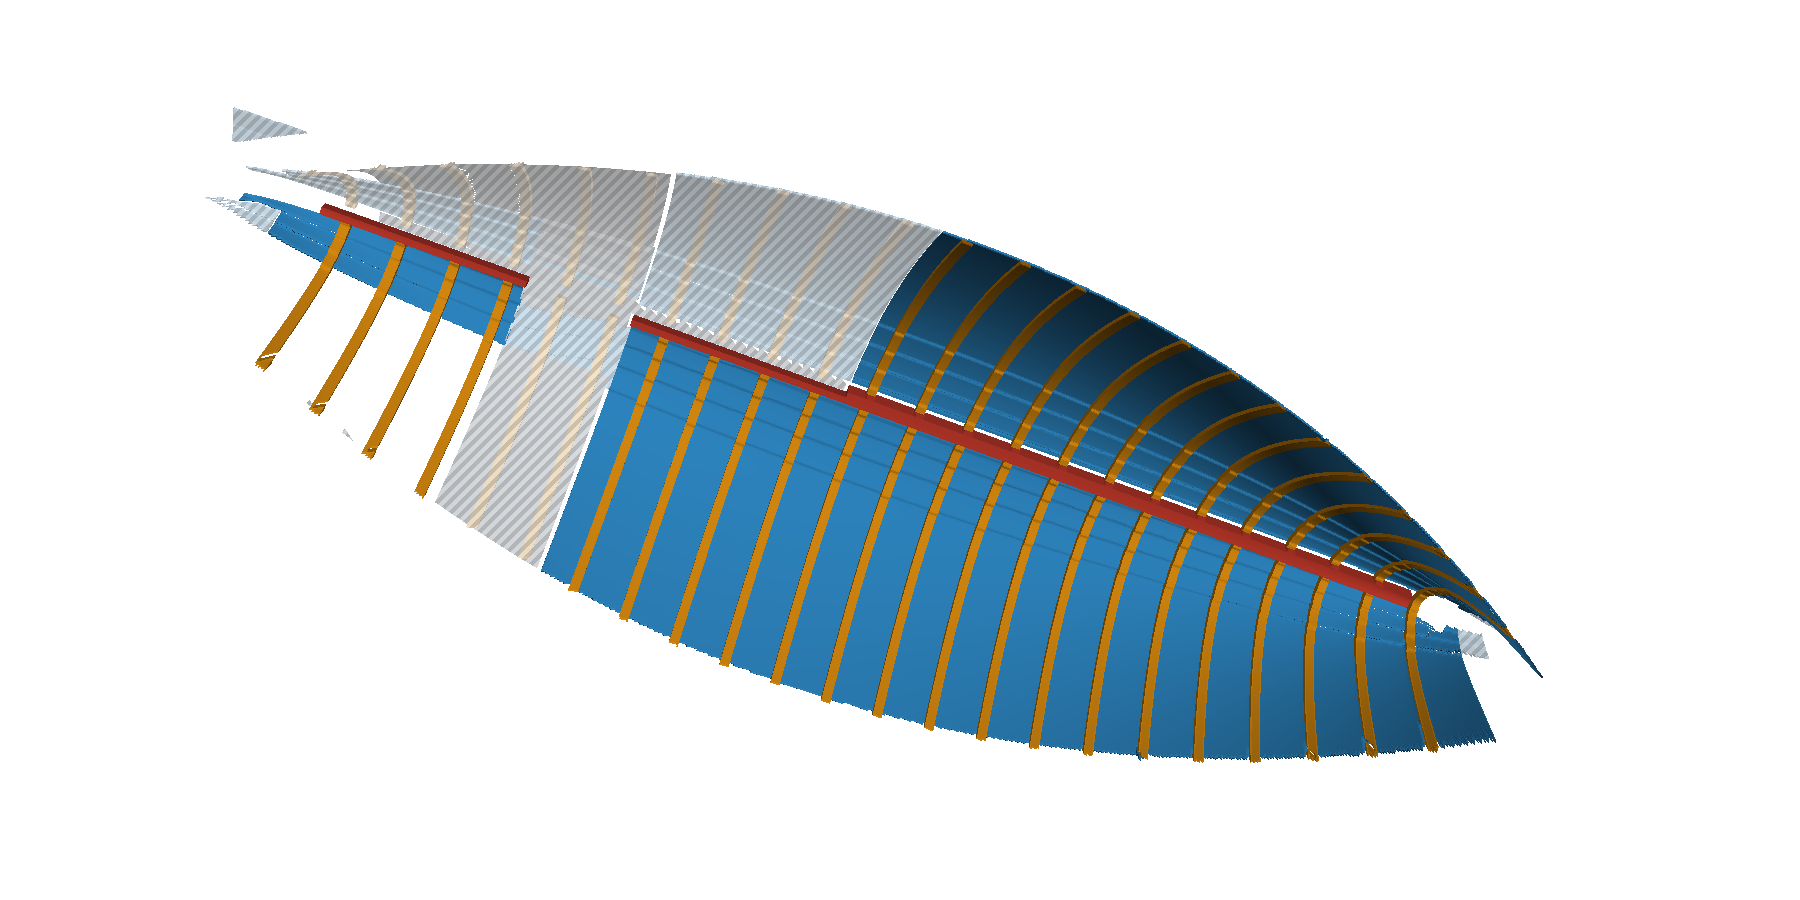
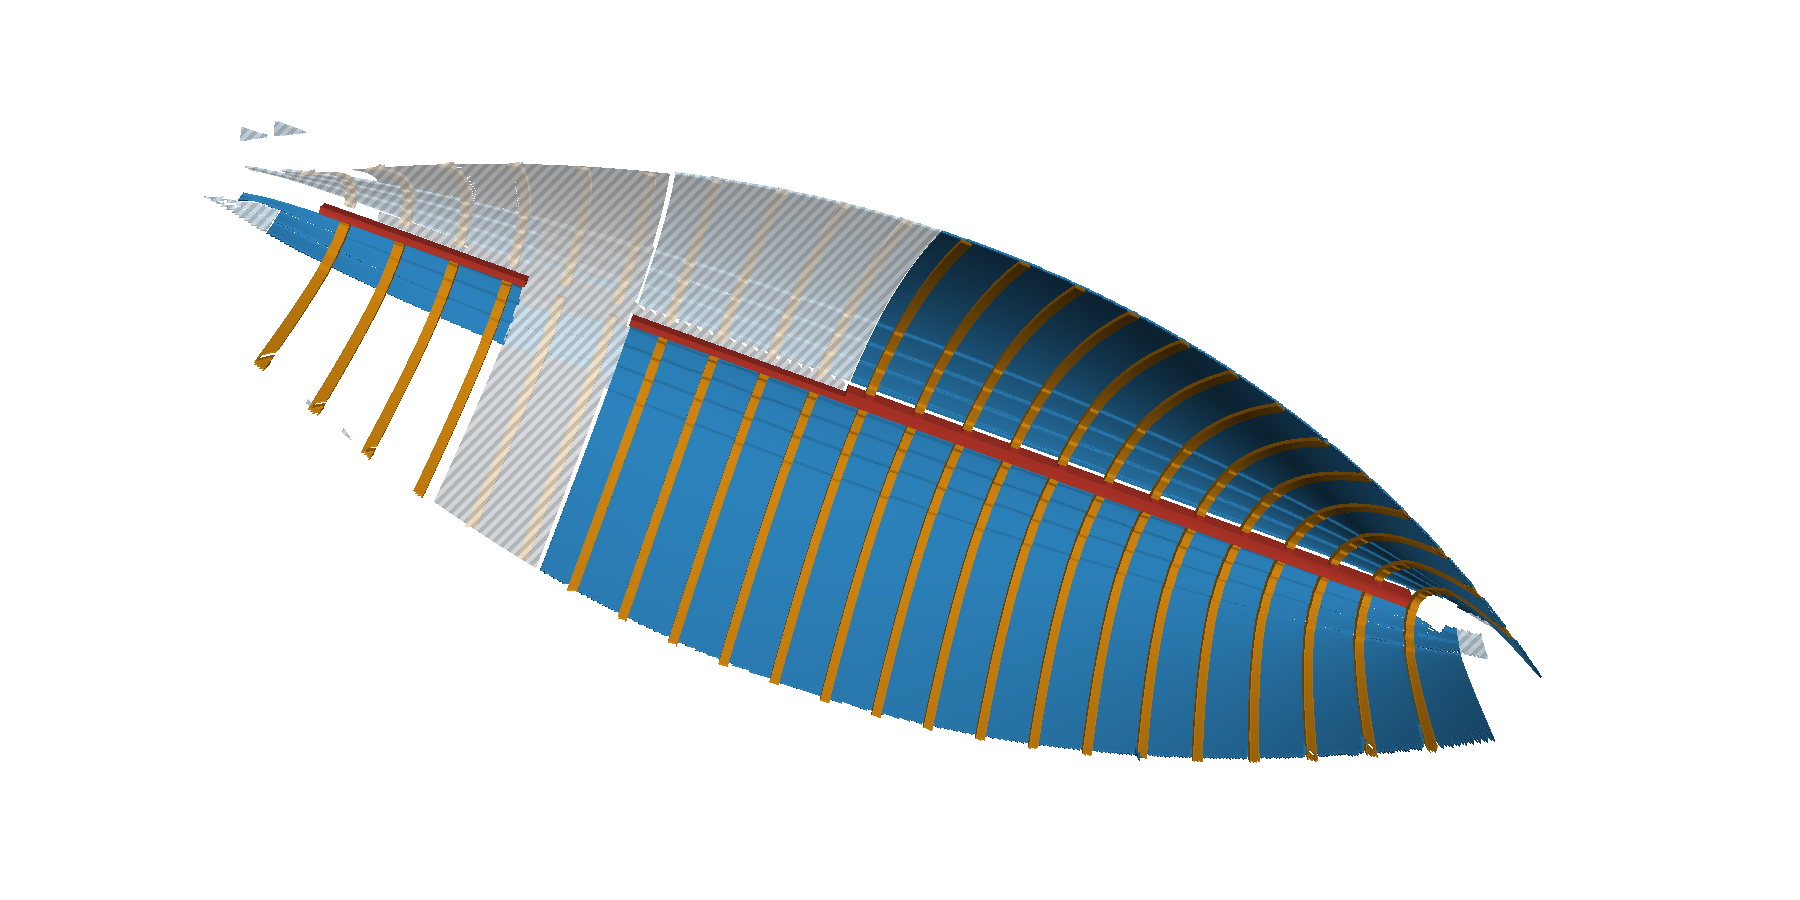
fix(shipwreck): a lost side's extension is held to the other side's half-breadth; stale undo copies go at each build
Where one side has no relief at an x, the half-breadth that bounds the
extension is the other side's at that x, as the mirror assumes, instead of
the midship breadth held to the end; the faired hull of an earlier build is no
longer read. The copies for Undo left by an earlier session are removed at the
chunk's next build too, as the project is usually opened after the plugin
starts.

Changed region(s): [[0.7467, 0.8089, 0.8089, 0.84], [0.1244, 0.2178, 0.1556, 0.2489], [0.1244, 0.1244, 0.1556, 0.1556]]

diff --git a/plugins/shipwreck/ppg_shipwreck/reconstruct.py b/plugins/shipwreck/ppg_shipwreck/reconstruct.py
@@ -595,8 +595,9 @@ OPEN_X = 0.25  # m: heights read along a seam opened over this length (a timber'
 NO_TREND_REACH = 1.0  # m: how far a seam without a trend (no land line, no sections) goes past its points
 GAP_FACTOR = 1.5  # a space between two frames longer than this many median spaces has frames missing
 WIDEN = 1.5  # an extended strake is cut where it grows wider than this many times its measured width ...
-"""... or where its outer edge passes the hull's half-breadth (:meth:`_Heights.half_breadth`, the faired hull's when
-built) by more than that width: a seam's trend that runs away (noisy land lines) never fans out of the hull."""
+"""... or where its outer edge passes the hull's half-breadth (:meth:`_Heights.half_breadth`: the relief's on that
+side, the other side's where that side is lost) by more than that width: a seam's trend that runs away (noisy land
+lines) never fans out of the hull."""
 _STRAKE = re.compile(r"([BT])(\d+)(?:\s*\(\d+\))?\s*$")
 _FRAME_NUMBER = re.compile(r"^(?:ordinata|frame)\s+(\d+)\s*$")
 _FAR = 1.0e4
@@ -839,17 +840,23 @@ class _Heights:
         self._breadth: dict[str, tuple] = {}
 
     def half_breadth(self, side: str, xs: np.ndarray) -> np.ndarray:
-        """The relief's farthest |y| on ``side`` at ``xs`` (column by column, interpolated across the columns with no
-        cell there and held past the relief's ends); inf without any cell on that side."""
+        """The hull's half-breadth on ``side`` at ``xs``, column by column of the relief: its farthest |y| on that
+        side; where that side has no cell in a column, the other side's (the symmetry the mirror assumes); across the
+        columns where neither side has one, interpolated, and held past the relief's ends; inf without any cell."""
         if side not in self._breadth:
             a = self.affine
             u = a.c + a.a * (np.arange(self.z.shape[1]) + 0.5)
             y = self.sign * (a.f + a.e * (np.arange(self.z.shape[0]) + 0.5))
-            mask = np.isfinite(self.z) & ((y > 0) if side == "port" else (y < 0))[:, None]
-            far = np.where(mask, np.abs(y)[:, None], -np.inf).max(axis=0)
-            has = mask.any(axis=0)
+            ok = np.isfinite(self.z)
+            far = {}
+            for s, here in (("port", y > 0), ("starboard", y < 0)):
+                mask = ok & here[:, None]
+                far[s] = np.where(mask.any(axis=0), np.where(mask, np.abs(y)[:, None], -np.inf).max(axis=0), np.nan)
+            other = "starboard" if side == "port" else "port"
+            b = np.where(np.isfinite(far[side]), far[side], far[other])
+            has = np.isfinite(b)
             order = np.argsort(u[has])
-            self._breadth[side] = (u[has][order], far[has][order])
+            self._breadth[side] = (u[has][order], b[has][order])
         u, b = self._breadth[side]
         xs = np.asarray(xs, float)
         return np.interp(xs, u, b) if len(u) else np.full(len(xs), np.inf)
@@ -1251,7 +1258,6 @@ def extend(chunk, progress=None, records=None) -> list[dict]:
     take = _ids(chunk, EXTENSION)
     key = relief.frame_key(frame)
     out, skipped, cache = [], [], {}
-    loft_breadth = _loft_breadth(chunk)
     for i, ((side, rank), members) in enumerate(sorted(strakes.items())):
         name = _base_name(members[0]["name"])
         progress(i / max(1, len(strakes)), t(f"Prolungamento: {name}", f"Extension: {name}"))
@@ -1286,10 +1292,6 @@ def extend(chunk, progress=None, records=None) -> list[dict]:
             cut_at = None
             if width:
                 limit = heights.half_breadth(side, xs)
-                if loft_breadth.get(side) is not None:
-                    lu, lb = loft_breadth[side]
-                    inside = (xs >= lu[0]) & (xs <= lu[-1])
-                    limit = np.where(inside, np.maximum(limit, np.interp(xs, lu, lb)), limit)
                 bad = ((upper[:, 1] - lower[:, 1] > WIDEN * width)
                        | (np.maximum(upper[:, 1], lower[:, 1]) > limit + width))
                 kept, cut_at = _kept_runs(xs, bad, a > a_lim + GRID, b < b_lim - GRID)
@@ -1372,28 +1374,6 @@ def _kept_runs(xs: np.ndarray, bad: np.ndarray, from_start: bool, from_end: bool
         runs = np.split(idx, np.flatnonzero(np.diff(idx) > 1) + 1)
         boxes = [shapely.box(xs[r[0]] - GRID / 2.0, -_FAR, xs[r[-1]] + GRID / 2.0, _FAR) for r in runs]
     return (shapely.union_all(boxes) if boxes else None), cut
-
-
-def _loft_breadth(chunk) -> dict:
-    """The faired hull of the earlier build, if any, as each side's farthest |y| per x bin of :data:`STEP`."""
-    entry = state(chunk).get("loft") or {}
-    path = chunk.data_dir / entry["file"] if entry.get("file") else None
-    if path is None or not path.exists():
-        return {}
-    from pyarchinit_photogrammetry.io.mesh_ply import PlyMesh
-
-    mesh = PlyMesh(path)  # the vertices only (the earlier build's file: not the 3D reads of this build)
-    v = np.array(mesh.xyz(), float)
-    del mesh
-    out = {}
-    for side, keep in (("port", v[:, 1] > 0), ("starboard", v[:, 1] < 0)):
-        if keep.sum() < 2:
-            continue
-        bins = np.round(v[keep, 0] / STEP).astype(int)
-        u = np.unique(bins)
-        far = np.array([np.abs(v[keep, 1][bins == k]).max() for k in u])
-        out[side] = (u * STEP, far)
-    return out
 
 
 # ----------------------------------------------------------------------------- frames at the measured spacing

diff --git a/plugins/shipwreck/tests/test_plugin_reconstruction_cli.py b/plugins/shipwreck/tests/test_plugin_reconstruction_cli.py
@@ -602,3 +602,42 @@ def test_undo_copies_and_the_reconstruction_layer(rebuild_window):
     shutil.rmtree(step.before_dir)
     w.history.undo()
     assert any("non c'è più" in s for s in said) and reconstruct.state(ch) == state  # nothing restored empty
+
+
+def test_stale_undo_copies_go_when_the_project_is_opened_after_activation(tmp_path, monkeypatch):
+    """The plugins start before a project is opened (start page, File > Open): the copies of an earlier session are
+    removed at the first build of the chunk, not left to grow."""
+    from PySide6.QtWidgets import QApplication
+
+    from ppg_shipwreck import UNDO_FOLDER, ShipwreckPlugin
+    from pyarchinit_photogrammetry.app import app
+    from pyarchinit_photogrammetry.gui import main_window as mwmod
+    from pyarchinit_photogrammetry.plugins import Context
+    from test_reconstruct import HOLE, _wreck_project
+
+    QApplication.instance() or QApplication([])
+    ch = _wreck_project(tmp_path / "p", port_from=HOLE)
+    ch.document.save()
+    stray = ship.folder(ch) / UNDO_FOLDER / "di_una_sessione_vecchia"
+    stray.mkdir(parents=True)
+    app.document = ppg.Document()  # as the program starts: an empty project, the plugins activated on it
+    w = mwmod.MainWindow(None, autoconnect=False, check_updates=False)
+    w.runner.show_dialog = False
+    plugin = ShipwreckPlugin()
+    try:
+        plugin.activate(Context("shipwreck", tmp_path / "plugin", window=w))
+        app.document = ch.document
+        w.set_document(ch.document)
+        assert stray.exists()  # activation saw no project
+        monkeypatch.setattr(plugin, "_message", lambda kind, text: None)
+        plugin.rebuild(w.chunk, ["mirror"])
+        w.runner.wait()
+        QApplication.processEvents()
+        assert not stray.exists()
+        assert len(list((ship.folder(w.chunk) / UNDO_FOLDER).iterdir())) == 2
+    finally:
+        plugin.deactivate()
+        w.setWindowModified(False)
+        w.close()
+        w.deleteLater()
+        app.document = None

diff --git a/plugins/shipwreck/tests/test_reconstruct.py b/plugins/shipwreck/tests/test_reconstruct.py
@@ -1062,3 +1062,26 @@ def test_an_extension_that_fans_out_is_cut_and_uncertain(cut_at_nine):
     assert any("fascia B3" in w and "tagliat" in w for w in warnings), warnings
     b2 = [r for r in out if r["name"] == "fascia B2"]
     assert max(np.asarray(r["ship_xy"])[:, 0].max() for r in b2) > 11.5  # an untouched strake reaches the end
+
+
+def test_a_lost_side_takes_the_other_sides_half_breadth(lost):
+    """Port lost aft of 6.5: where port has no relief the guard reads starboard's half-breadth at that x (the symmetry
+    the mirror assumes), never the midship breadth held to the end. No extended piece leaves the hull by more than its
+    strake's width; fascia B4's tip (x 11.2-11.8) is cut."""
+    from hulls import plan_half_breadth
+
+    ch = lost
+    reconstruct.mirror(ch)
+    heights = reconstruct._Heights(ch, ship.frame_of(ch), timbers.timbers_of(ch))
+    xs = np.array([11.0, 11.5, 11.7])
+    port, starboard = heights.half_breadth("port", xs), heights.half_breadth("starboard", xs)
+    assert np.allclose(port, starboard) and np.all(port < 0.7), (port, starboard)
+    out = reconstruct.extend(ch)
+    for r in out:
+        if r["side"] != "port":
+            continue
+        e = np.asarray(r["edges"]["upper"], float)
+        assert np.all(np.abs(e[:, 1]) <= [plan_half_breadth(x) + 0.25 for x in e[:, 0]]), r["name"]
+    b4 = [r for r in out if r["name"] == "fascia B4"]
+    assert all(np.asarray(r["ship_xy"])[:, 0].max() < 11.6 for r in b4), [np.asarray(r["ship_xy"])[:, 0].max() for r in b4]
+    assert any("fascia B4" in w and "tagliat" in w for w in reconstruct.state(ch)["extension"]["warnings"])

diff --git a/plugins/shipwreck/ppg_shipwreck/__init__.py b/plugins/shipwreck/ppg_shipwreck/__init__.py
@@ -1407,6 +1407,9 @@ class ShipwreckPlugin(Plugin):
             return last[0]
         root = _rec_folder(chunk).parent / UNDO_FOLDER
         root.mkdir(parents=True, exist_ok=True)
+        for old in root.iterdir():  # an earlier session's (the project may be opened after the plugin started)
+            if old not in _UNDO_DIRS:
+                _remove(old)
         dst = root / uuid.uuid4().hex
         _copy_folder(_rec_folder(chunk), dst)
         _UNDO_DIRS.add(dst)

diff --git a/plugins/shipwreck/docs/shipwreck.it.md b/plugins/shipwreck/docs/shipwreck.it.md
@@ -200,8 +200,8 @@ mentre il rilievo è mostrato, il layer *Ricostruzione (ipotesi)* disegna sopra 
   le linee dei gradini delle sezioni (passo 7) dove ci sono, altrimenti la curvatura dei loro punti per un metro al
   massimo, poi tenuti dritti: quei pezzi sono segnati `uncertain` (incerti). Un pezzo prolungato è tagliato dove si
   allarga oltre 1,5 volte la larghezza misurata della fascia, o dove il suo bordo esterno supera di più di quella
-  larghezza la mezza larghezza dello scafo a quella x (la cella più lontana del rilievo da quel lato, o la carenatura
-  della costruzione precedente): linee dei gradini rumorose non aprono più una fascia a ventaglio fuori dal relitto.
+  larghezza la mezza larghezza dello scafo a quella x (la cella più lontana del rilievo da quel lato; dove quel lato è
+  perso, quella dell'altro lato alla stessa x, come assume la simmetria): linee dei gradini rumorose non aprono più una fascia a ventaglio fuori dal relitto.
   Un pezzo tagliato è `uncertain` e nominato negli avvisi.
 - **Ordinate al passo misurato.** Dove lo spazio fra due ordinate ricalcate supera di 1,5 volte lo spazio mediano del
   loro lato, le ordinate mancanti sono rimesse a quel passo, in piedi sullo scafo (dal rilievo, dai solidi riflessi o

diff --git a/plugins/shipwreck/docs/shipwreck.md b/plugins/shipwreck/docs/shipwreck.md
@@ -196,7 +196,8 @@ edited by hand: deleting them there is refused with a word on how to remove them
   land lines of the sections (step 7) where there are some, else the bending of the seam's own points for at most a
   metre, then held straight: those pieces are flagged `uncertain`. An extended piece is cut where it grows wider than
   1.5 times the strake's measured width, or where its outer edge passes the hull's half-breadth at that x (the relief's
-  farthest cell on that side, or the faired hull of the previous build) by more than that width: noisy land lines no
+  farthest cell on that side; where that side is lost, the other side's at the same x, as the mirror assumes) by more
+  than that width: noisy land lines no
   longer fan a strake out of the wreck. A cut piece is `uncertain` and named in the warnings.
 - **Frames at the measured spacing.** Where the space between two traced frames is more than 1.5 times the median
   space of their side, the missing frames are put back at that spacing, standing on the hull (from the relief, the
